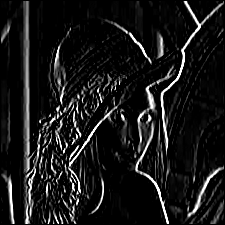
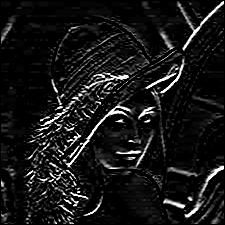
update

diff --git a/firstorder_edge.py b/firstorder_edge.py
@@ -21,6 +21,24 @@ def get_kernel_size(filter_name="sobel"):
         
         return Gx, Gy, 3
     
+    elif filter_name == "sobel_5x5":
+            Gx = np.array([
+                [-2, -3, 0, 3, 2],
+                [-4, -6, 0, 6, 4],
+                [-5, -8, 0, 8, 5],
+                [-4, -6, 0, 6, 4],
+                [-2, -3, 0, 3, 2]
+            ], dtype=np.float32)
+            
+            Gy = np.array([
+                [-2, -4, -5, -4, -2],
+                [-3, -6, -8, -6, -3],
+                [0, 0, 0, 0, 0],
+                [3, 6, 8, 6, 3],
+                [2, 4, 5, 4, 2]
+            ], dtype=np.float32)
+            return Gx, Gy, 5
+    
     elif filter_name == "prewitt":
         Gx = np.array([[1.0, 0.0, -1.0], 
                         [1.0, 0.0, -1.0], 
@@ -50,8 +68,8 @@ def edge_operator(img, filter_name="sobel"):
     
     for i in range(w - kernel_size + 1):
         for j in range(h - kernel_size + 1):
-            gx = np.sum(np.multiply(Gx, img[i:i + kernel_size, j:j + kernel_size])) /  kernel_size  # x direction
-            gy = np.sum(np.multiply(Gy, img[i:i + kernel_size, j:j + kernel_size])) /  kernel_size  # y direction
+            gx = np.sum(np.multiply(Gx, img_gray[i:i + kernel_size, j:j + kernel_size])) /  2 * kernel_size  # x direction
+            gy = np.sum(np.multiply(Gy, img_gray[i:i + kernel_size, j:j + kernel_size])) /  2 * kernel_size  # y direction
             mag = np.sqrt(gx ** 2 + gy ** 2) # magnitude
             print(gx)
             print(gy)
@@ -59,6 +77,7 @@ def edge_operator(img, filter_name="sobel"):
             magnimtude_img[i + 1, j + 1] =  mag
             mag_list.append(mag)
                 
+    cv.imwrite(f"gray.png", img_gray)
     cv.imwrite(f"result/gx_{filter_name}.png", x_img)
     cv.imwrite(f"result/gy_{filter_name}.png", y_img)
     cv.imwrite(f"result/mag_{filter_name}.png", magnimtude_img)
@@ -68,7 +87,7 @@ def edge_operator(img, filter_name="sobel"):
 
 
 
-def edge_detection(img_path, filter_name="sobel", threshold=400):
+def edge_detection(img_path, filter_name="sobel", threshold=150):
     img = cv.imread(img_path)
     magnimtude_img = edge_operator(img, filter_name) 
     edge_img = np.where(magnimtude_img > threshold, 255, 0).astype(np.uint8)
@@ -78,4 +97,4 @@ def edge_detection(img_path, filter_name="sobel", threshold=400):
 
 img_path = "img\lena.jpg"
 edge_detection(img_path)
-edge_detection(img_path, "prewitt")
+edge_detection(img_path, "sobel_5x5")
